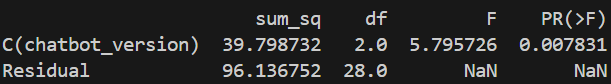
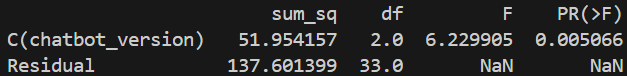
evaluation classification

diff --git a/evaluation.py b/evaluation.py
@@ -4,8 +4,8 @@ import pandas as pd
 import statsmodels.api as sm
 from statsmodels.formula.api import ols
 import scipy.stats as stats
-from simpletransformers.ner import NERModel
-import argparse
+#from simpletransformers.ner import NERModel
+import re
 np.set_printoptions(legacy='1.25')
 
 def intitializeClient():
@@ -44,7 +44,7 @@ def get_db_metrics_chatbot(botver: str):
                 assistant_messages.append(content)
             chat_messages.append(item["content"])
         chat_length.append(len(chat_messages))
-    
+
     metrics = {
         "total_users": leng,
         "trusted_users": trusted_users,
@@ -58,12 +58,12 @@ def get_db_metrics_chatbot(botver: str):
         "std_correctness_users": np.std(correctness),
         "std_experience_users": np.std(experience)
     }
-    print(metrics["mean_chat_length"])
+    #print(len(metrics["chatbot_history"]))
     return metrics
 
 def preprocess_anova(test: str):
     client = intitializeClient()
-    response = client.table("evaluation_submissions").select("chatbot_used, confidence_value, correctness_value, experience_level, age, duration_until_conversation_end")\
+    response = client.table("evaluation_submissions").select("chatbot_used, confidence_value, correctness_value, experience_level, age, duration_until_conversation_end, gender")\
         .execute()
 
     bot_list = []
@@ -72,6 +72,7 @@ def preprocess_anova(test: str):
     exp_list = []
     age_list = []
     duration_list = []
+    gender_list = []
 
     data_conf = {
         'chatbot_version': bot_list,
@@ -98,6 +99,11 @@ def preprocess_anova(test: str):
         'duration_until_conversation_end': duration_list
     }
 
+    data_gender = {
+        "chatbot_version": bot_list,
+        "gender": gender_list
+    }
+
     for dict in response.data:
         bot_list.append(dict['chatbot_used'])
         conf_list.append(dict['confidence_value'])
@@ -105,7 +111,9 @@ def preprocess_anova(test: str):
         exp_list.append(dict['experience_level'])
         age_list.append(dict['age'])
         duration_list.append(dict['duration_until_conversation_end'])
+        gender_list.append(dict["gender"])
     
+
     if test == 'confidence':
         return data_conf
     elif test == 'correctness':
@@ -116,6 +124,9 @@ def preprocess_anova(test: str):
         return data_age
     elif test == 'time':
         return data_time
+    elif test == "gender":
+        data_gender["gender"] = ["Female" if x == "Woman" else x for x in gender_list]
+        return data_gender
 
 def anova_test(dependent_var: str):
     df = preprocess_anova(dependent_var)
@@ -124,6 +135,9 @@ def anova_test(dependent_var: str):
     anova_table = sm.stats.anova_lm(model, typ=2)
 
     print(anova_table)
+
+def aggregate_hedgeversions(botlist):
+    return ["ChatBot 2" if x == "ChatBot 3" else x for x in botlist]
 
 def preprocess_chi():
     client = intitializeClient()
@@ -142,6 +156,8 @@ def preprocess_chi():
         bot_list.append(dict['chatbot_used'])
         trust_list.append(dict['follows_advice'])
     
+    #df["chatbot_version"] = aggregate_hedgeversions(bot_list)
+
     return df
 
 def chi_squared():
@@ -150,6 +166,10 @@ def chi_squared():
 
     chi2, p, dof, expected = stats.chi2_contingency(contingency)
 
+    n = contingency.to_numpy().sum()  # total sample size
+    cramers_v = np.sqrt(chi2 / (n * (min(contingency.shape)-1)))
+
+    print("Cramér's V:", cramers_v)
     print("Chi2:", chi2)
     print("p-value:", p)
     print("Degrees of freedom:", dof)
@@ -183,35 +203,75 @@ def hedge_multiclassification():
 
 def hedge_classification():
     from huggingface_hub import InferenceClient
+    hedge_probs = []
+    non_hedge_probs = []
+    highest_labels = []
 
     metrics = get_db_metrics_chatbot("ChatBot 1")
     messages = metrics["chatbot_history"]
+    input_strings = split_sentences(messages)
 
     client = InferenceClient(
         provider="hf-inference",
         api_key="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",
     )
 
-    for item in messages:
+    for s in input_strings:
         result = client.text_classification(
-            item,
+            s,
             model="ChrisLiewJY/BERTweet-Hedge",
         )
 
-        print(result)
+        for item in result:
+            if item.label == "LABEL_1":
+                hedge_probs.append(item.score)
+            else:
+                non_hedge_probs.append(item.score)
+        
+        best = max(result, key=lambda x: x.score)
+        best_label = best.label
+        highest_labels.append(best_label)
+    
+    mean_hedge_prob = np.mean(hedge_probs)
+    mean_non_hedge_prob = np.mean(non_hedge_probs)
+    print(f"Mean Probability of hedge occurence: {mean_hedge_prob}\n Mean Probability of no hedge occurence: {mean_non_hedge_prob}")
+    print(f"Hedged Sentences: {highest_labels.count("LABEL_1")}\nNon-hedged Sentences: {highest_labels.count("LABEL_0")}")
+
+def hedge_classification2():
+    from transformers import pipeline
+
+    hedge_probs = []
+    non_hedge_probs = []
+    highest_labels = []
+
+    metrics = get_db_metrics_chatbot("ChatBot 1")
+    messages = metrics["chatbot_history"]
+    input_strings = split_sentences(messages)
+    
+    pipe = pipeline(model="ChrisLiewJY/BERTweet-Hedge")
+    pipe("I am not sure")
+
+def split_sentences(strings):
+    sentences = []
+    for s in strings:
+        cleaned = s.replace("\n", " ")
+        parts = re.split(r'(?<=[.!?])\s+', cleaned.strip())
+        sentences.extend(parts)
+    return sentences
 
 #chi_squared()
-#anova_test('confidence')
-#hedge_classification()
+#anova_test('correctness')
+#hedge_multiclassification()
+hedge_classification2()
 #bot1_metrics = get_db_metrics_chatbot("ChatBot 1")
-bot2_metrics = get_db_metrics_chatbot("ChatBot 2")
-bot3_metrics = get_db_metrics_chatbot("ChatBot 3")
+#bot2_metrics = get_db_metrics_chatbot("ChatBot 2")
+#bot3_metrics = get_db_metrics_chatbot("ChatBot 3")
 
 """ ---VISUALIZATION--- """
 import seaborn as sns
 import matplotlib.pyplot as plt
 
-def visualize_metrics():
+def visualize_metrics(metric: str):
     metrics_list = []
     metrics_list.append(bot1_metrics)
     metrics_list.append(bot2_metrics)
@@ -219,10 +279,21 @@ def visualize_metrics():
 
     total_users_list = []
     trusted_users_list = []
+    mean_chathistory_length = []
+    mean_assistant_messages_length = []
 
     for x in metrics_list:
-        total_users_list.append(x["total_users"])
-        trusted_users_list.append(x["trusted_users"])
+        ch_list = []
+        if metric == "users":
+            total_users_list.append(x["total_users"])
+            trusted_users_list.append(x["trusted_users"])
+        elif metric == "chathistory":
+            mean_chathistory_length.append(x["mean_chat_length"])
+        
+            for chat in x["chatbot_history"]:
+                ch_list.append(sum(1 for ch in chat if ch.isalpha()))
+            mean_assistant_messages_length.append(np.mean(ch_list))
+
 
     total_users = {
         "chatbot_version": [1, 2, 3],
@@ -234,15 +305,39 @@ def visualize_metrics():
         "trusted_users": trusted_users_list
     }
 
-    f, axs = plt.subplots(1, 2, figsize=(8, 4))
-    sns.barplot(data=total_users, x="chatbot_version", y="total_users", ax=axs[0])
-    sns.barplot(data=trusted_users, x="chatbot_version", y="trusted_users", ax=axs[1])
+    chat_length = {
+        "chatbot_version": [1, 2, 3],
+        "mean_chathistory_length": mean_chathistory_length
+    }
+
+    message_length = {
+        "chatbot_version": [1, 2, 3],
+        "mean_chatmessage_length": mean_assistant_messages_length
+    }
+
+    df1 = pd.DataFrame(total_users)
+    df2 = pd.DataFrame(trusted_users)
+
+    df = pd.merge(df1, df2, on="chatbot_version")
+
+    df["not_trusted"] = df["total_users"] - df["trusted_users"]
+
+    df.plot(x="chatbot_version", y=["trusted_users", "not_trusted"], kind="bar", stacked=True)
+    plt.ylabel("Number of users")
+    plt.title("Trusted vs Not Trusted per Chatbot Version")
     plt.show()
+
+    #f, axs = plt.subplots(1, 2, figsize=(8, 4))
+    #sns.barplot(data=chat_length, x="chatbot_version", y="mean_chathistory_length", ax=axs[0])
+    #sns.barplot(data=message_length, x="chatbot_version", y="mean_chatmessage_length", ax=axs[1])
+    #plt.subplots_adjust(wspace=0.5)
+    #plt.show()
 
 def visualize_anova():
-    df = preprocess_anova("age")
-    sns.boxplot(data=df, x="chatbot_version", y="age")
+    df = preprocess_anova("gender")
+    #sns.boxplot(data=df, x="chatbot_version", y="duration_until_conversation_end", showfliers = False)
+    sns.displot(data=df, hue="chatbot_version", x="gender", multiple="stack")
     plt.show()
 
-#visualize_metrics()
+#visualize_metrics("users")
 #visualize_anova()
